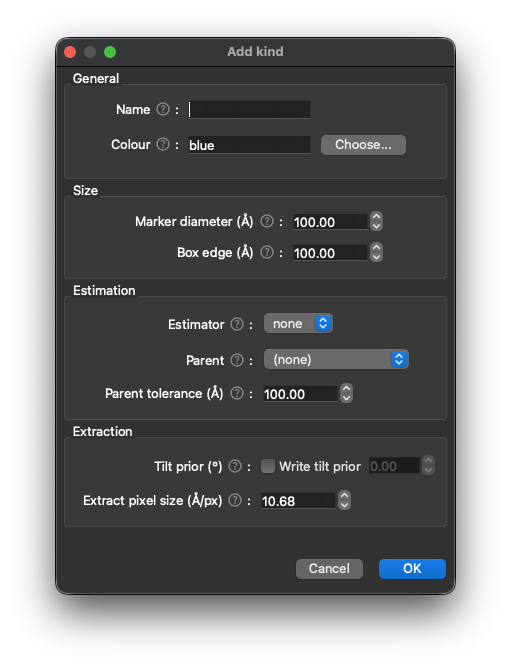
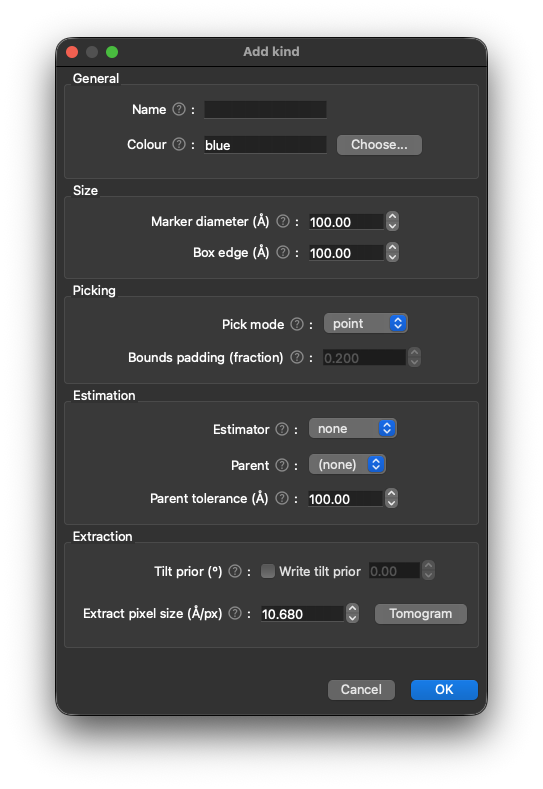
docs: update readme
- Modified README.md to describe the filament estimator, the two-click pick mode, arrow key scrolling, the Review tab's patch, kind validation, filament averages and lowest scoring montages.
- Updated docs/images/* to match updated UI.

Changed region(s): [[0.0881, 0.0299, 0.91, 0.9581], [0.1468, 0.2395, 0.2055, 0.2994]]

diff --git a/README.md b/README.md
@@ -41,19 +41,29 @@ Click `[New project]`, and complete the fields in the dialog. Hover over a field
 ![Project tab](docs/images/project-tab.png)
 
 #### 2.1 Tomograms
-This table lists every tomogram alongside its shape, pixel size and whether a matching denoised volume was identified. Yellow warning indicate usable tomograms with issues to be aware of (e.g. no denoised tomogram found, unusual pixel size), while a red error marks a rejected or unusable tomogram - hover over the error to see the reaon.
+This table lists every tomogram alongside its shape, pixel size and whether a matching denoised volume was identified. Yellow warnings indicate usable tomograms with issues to be aware of (e.g. no denoised tomogram found, unusual pixel size), while a red error marks a rejected or unusable tomogram - hover over the error to see the reaon.
 
 #### 2.2 Kinds
-Each 'kind' is a type of pick and multiple can be added as required. Each kind has a marker size, an extraction box, an estimator (`ring` fits a circle to a pick, `none` passes the click straight through), a colour, an optional parent kind and an extraction pixel size. A kind with a parent takes its membrane-normal orientation from the nearest parent estimate.
+Each 'kind' is a type of pick and multiple can be added as required. Each kind has a marker size, an extraction box, an estimator (`ring` fits a circle to a pick, `filament` snaps a pick onto a dark filament, `none` passes the click straight through), a pick mode, a colour, an optional parent kind and an extraction pixel size. A kind with a parent takes its membrane-normal orientation from the nearest parent estimate.
 
 ![Kinds dialog](docs/images/kinds-dialog.png)
 
+##### 2.2.1 `filament` estimator
+The `filament` estimator finds the nearest dark filament, moves the pick onto its axis, and measures width, in-plane direction and z-extent. The pick's box can be sized one of two ways which is defined by `Box from`, each with different uses:
+
+`Box from` value | Box size derived from | Description
+-- | -- | --
+`segment` (default) | The length of the filament | The box is large and mostly empty other than a thin filament, but useful for when the full filament is needed for further refinement
+`width` | The width of the filament multiplied by a margin | The box is small but a single filament may be split into tiled particles along the axis
+
+##### 2.2.2 `bounds` pick mod
+A kind with the `bounds` pick mode is picked using two clicks, one on each side of the particle. The pick centre is then derived from the centre of the line linking the two click points, with box edge derives from this distance plus the kind's configured padding. Extraction and averaging use one box for a kind, therefore leave `Box edge` at 0 to derive this length from the 95th percentile of the picks' boxes.
+
 #### 2.3 Settings
-This pane controls general settings for the project, including which volume to use in the picking interface and which hotkeys map to which kinds. Parameters for the `ring` estimator can also be adjusted here as required.
+This pane controls general settings for the project, including which volume to use in the picking interface and which hotkeys map to which kinds. Parameters for the `ring` and `filament` estimators, and for kind validation, can also be adjusted here as required.
 
 ### 3. Pick
-
-Open the Pick tab. To the left is a a list of tomograms in the project, clicking a tomogram will jump there as will typing either its name or number into the search bar (the search bar automatically moves to the first match). If needed, the tomogram list can be hidden using the button next to the tomogram title. Select a kind using a hotkey or from the Kinds group, and left-click to add or select a pick. Picks can be moved by selecting & dragging, or deleted using the delete button (or `Delete` key). Right-click to pan across the current slice, and Ctrl/Cmd+Scroll to adjust zoom. Scrolling updates the current Z slice, and `Enter`/`Shift+Enter` steps forward/backward between tomograms. The settings pane has brightness/contrast controls, including `Auto` (the tomogram's own limits) and `Invert`, as well as auto-zoom functions `Fit` and `Fill`. The views group shows/hides fitted rings, boxes and normals. The pick table beneath shows each pick's estimate status: a green tick, a yellow warning (when flagged), a red error (when error occured during estimation), or a blue spinner (during processing).
+Open the Pick tab. To the left is a a list of tomograms in the project, clicking a tomogram will jump there as will typing either its name or number into the search bar (the search bar automatically moves to the first match). If needed, the tomogram list can be hidden using the button next to the tomogram title. Select a kind using a hotkey or from the Kinds group, and left-click to add or select a pick. Picks can be moved by selecting & dragging, or deleted using the delete button (or `Delete` key). Right-click to pan across the current slice, and Ctrl/Cmd+Scroll to adjust zoom. Scrolling updates the current Z slice, as do the `Up`/`Down` arrow keys (`Shift` for ten slices at a time), and `Enter`/`Shift+Enter` steps forward/backward between tomograms. For a two-click kind, click one side of the structure then the other (`Esc` cancels). The settings pane has brightness/contrast controls, including `Auto` (the tomogram's own limits) and `Invert`, as well as auto-zoom functions `Fit` and `Fill`. The views group shows/hides fitted rings and filament axes, boxes and normals. The pick table beneath shows each pick's estimate status: a green tick, a yellow warning (when flagged), a red error (when error occured during estimation), or a blue spinner (during processing).
 
 ![Pick tab](docs/images/pick-tab.png)
 
@@ -62,13 +72,13 @@ Once several picks exist for a kind, the Match group within the settings pane ca
 
 ### 4. Review
 
-Open the Review tab. Picks can be filtered by kind, tomogram, minimum SNR and whether they were flagged, with options to delete the selected pick or all currently shown. All picks can be queued for re-estimation here if required as well. Single-click a pick to view XY/XZ/YZ previews, or double-click to open that pick in the Pick tab.
+Open the Review tab. Picks can be filtered by kind, tomogram, minimum SNR and whether they were flagged, with options to delete the selected pick or all currently shown. All picks can be queued for re-estimation here if required as well. Single-click a pick to view XY/XZ/YZ previews as well as a close-up patch. The pick's box is outlined in every panel, with the z range of its fit dotted in XZ and YZ, and a filament's axis is drawn in the patch. Drag the dot or the box in the patch to nudge the pick position and trigger re-estimation. Double-click a pick to open it in the Pick tab. `Validate` scores each pick of the chosen kind (all if none is chosen) against the average of its kind, taken over small shifts and without the lowest scoring picks, and flags picks scoring far below the rest as `lowcc`. Clean kinds won't be flagged, and the cut-off can be adjusted in Settings as required. The scores show in a `Score` column and `Worst first` orders by them.
 
 ![Review tab](docs/images/review-tab.png)
 
 ### 5. Average and export
 
-Open the Export tab. At the top, the averaging pane allows selection of a kind to build a mean projection and montage of the picks for that kind (optionally filterable by tomogram). The mean and montage images can be saved to `out/` from here, as well as per-tomogram extracted picks if desired. Below, a table summarises the collected data for all kinds and allow specification of a minimum SNR and whether to include flagged picks in exports. Click the checkboxes for the desired output filetype(s) and click `Export` to save. `Extract` alternatively generates a subvolume from each pick and saves as MRC files under `out/particles/<kind>`.
+Open the Export tab. At the top, the averaging pane allows selection of a kind to build a mean projection and montage of the picks for that kind (optionally filterable by tomogram). Filaments are turned along x before they are averaged, with their two ends not told apart. `Montage lowest scoring first` fills the montage with the lowest validation scores. The mean and montage images can be saved to `out/` from here, as well as per-tomogram extracted picks if desired. Below, a table summarises the collected data for all kinds and allow specification of a minimum SNR and whether to include flagged picks in exports. Click the checkboxes for the desired output filetype(s) and click `Export` to save. `Extract` alternatively generates a subvolume from each pick and saves as MRC files under `out/particles/<kind>`.
 
 ![Export tab](docs/images/export-tab.png)
 
@@ -79,5 +89,5 @@ project/
   config.toml        settings and kinds
   tomograms.star     merged RELION tomogram table
   tilt_series/       one star file per tomogram
-  out/               picks, candidates, estimates, averages, RELION & .csv exports
+  out/               picks, candidates, estimates, validation scores, averages, RELION & .csv exports
 ```
